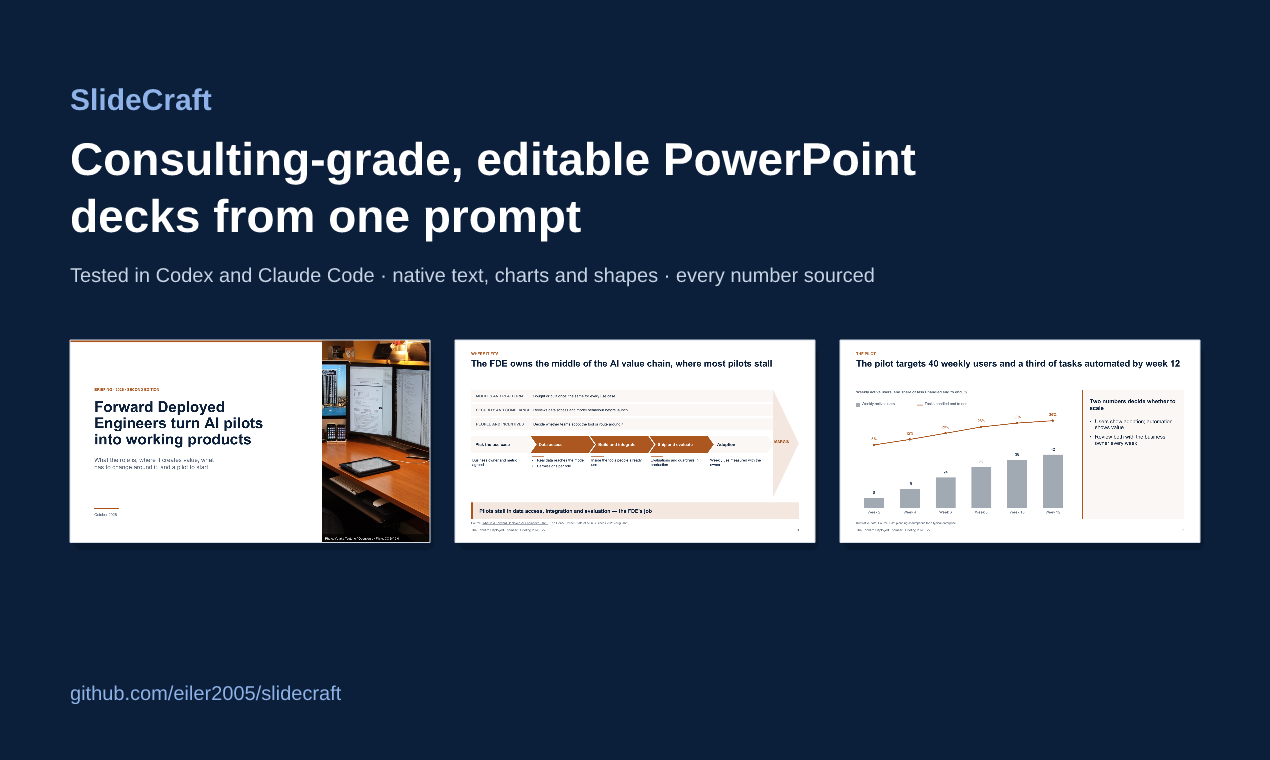
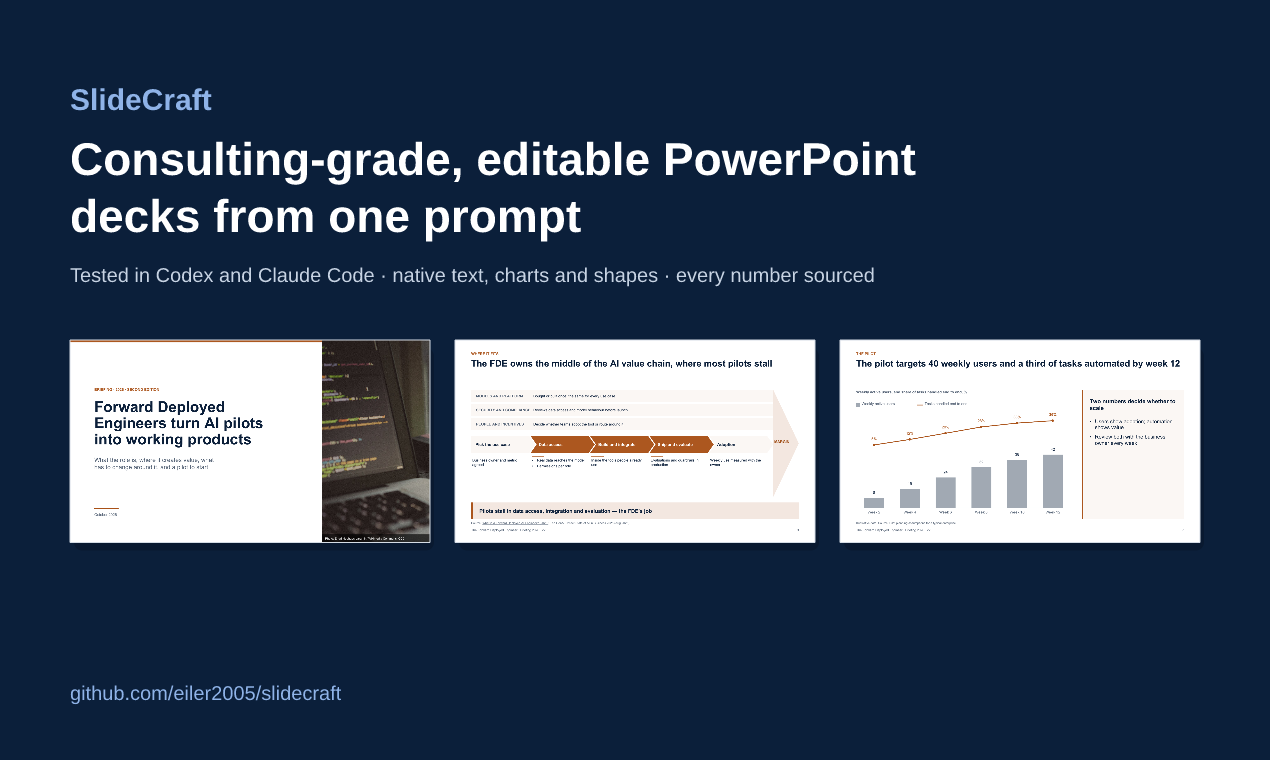
Landing page for the launch: GIF, one prompt with Copy, social card
- Site: tagline, explainer GIF, the README's one prompt with a Copy button,
  three featured decks, then the gallery; Open Graph / Twitter tags with
  a 1280x640 social preview and a favicon.
- README opens with the GIF, a one-line pitch and the one-prompt section.
- Launch media: social-preview.png; launch checklist updated.

Changed region(s): [[0.2457, 0.4237, 0.3378, 0.7263]]

diff --git a/src/site.ts b/src/site.ts
@@ -4,7 +4,15 @@
  * Generated in CI and never committed, so the gallery can grow without bloating git;
  * the repository keeps only the curated images that README and docs embed.
  */
-import { copyFileSync, existsSync, mkdirSync, readdirSync, rmSync, writeFileSync } from 'node:fs';
+import {
+  copyFileSync,
+  existsSync,
+  mkdirSync,
+  readdirSync,
+  readFileSync,
+  rmSync,
+  writeFileSync,
+} from 'node:fs';
 import { basename, join, relative, resolve } from 'node:path';
 import { buildDeck } from './build.ts';
 import { buildGallery, buildHero } from './gallery.ts';
@@ -13,6 +21,26 @@ import { loadStorylines, loadThemes } from './library/load.ts';
 import { ROOT, VERSION } from './paths.ts';
 
 const REPO = 'https://github.com/eiler2005/slidecraft';
+const SITE = 'https://eiler2005.github.io/slidecraft/';
+const TAGLINE = 'Editable PowerPoint decks from one prompt';
+const SUMMARY =
+  'Paste one prompt into ChatGPT, Claude or Codex and get an editable PowerPoint — action titles, sourced numbers and a review before hand-off. Not a picture of slides.';
+/** Shown first under "Example decks": a cover photo, a framework deck, the deck about SlideCraft. */
+const FEATURED = ['fde-engineer-en-v2', 'llm-concepts', 'slidecraft-overview'];
+/** Launch media copied next to the page: the explainer GIF, the social card and the icon. */
+const MEDIA: [string, string][] = [
+  ['docs/media/launch/slidecraft-story.gif', 'slidecraft-story.gif'],
+  ['docs/media/launch/social-preview.png', 'og.png'],
+  ['docs/media/launch/icon-240.png', 'icon.png'],
+];
+
+/** The one-prompt block from the README, so the site and the README never disagree. */
+export function onePrompt(readme = readFileSync(join(ROOT, 'README.md'), 'utf8')): string {
+  const section = readme.split(/^## The easiest way: one prompt$/m)[1] ?? '';
+  const block = /```text\n([\s\S]*?)\n```/.exec(section);
+  if (!block) throw new Error('README: no ```text block under "The easiest way: one prompt"');
+  return block[1]!;
+}
 const esc = (s: string) =>
   s.replace(/&/g, '&amp;').replace(/</g, '&lt;').replace(/>/g, '&gt;').replace(/"/g, '&quot;');
 
@@ -35,6 +63,7 @@ export async function buildSite(outDir = 'site'): Promise<SiteResult> {
     width: 1200,
   });
   const hero = await buildHero(join(out, 'gallery', 'hero.png'));
+  for (const [from, to] of MEDIA) copyFileSync(join(ROOT, from), join(out, to));
 
   const examples: { id: string; title: string; files: { kind: string; path: string }[] }[] = [];
   // the deck about SlideCraft first, then the rest alphabetically
@@ -62,7 +91,7 @@ export async function buildSite(outDir = 'site'): Promise<SiteResult> {
   }
   writeFileSync(
     join(out, 'index.html'),
-    page({ storylines, themes, examples, hero: relative(out, hero) }),
+    page({ storylines, themes, examples, hero: relative(out, hero), prompt: onePrompt() }),
   );
   writeFileSync(join(out, '.nojekyll'), '');
   return { out, pages: 1, images: g.files.length + 1, examples: examples.length };
@@ -81,6 +110,7 @@ function page(d: {
   themes: ReturnType<typeof loadThemes>;
   examples: { id: string; title: string; files: { kind: string; path: string }[] }[];
   hero: string;
+  prompt: string;
 }): string {
   const matrix = d.storylines
     .map(
@@ -99,25 +129,40 @@ function page(d: {
         `<figure class="card"><img loading="lazy" src="gallery/layouts/${l.id}--${ex.variant ?? l.variants[0]}.png" alt="${esc(`${l.name} — ${ex.variant ?? l.variants[0]}`)}"><figcaption><code>${l.id}</code> · ${esc(ex.variant ?? l.variants[0])}<br><span>${esc(l.purpose)}</span></figcaption></figure>`,
     ),
   ).join('');
+  const card = (e: (typeof d.examples)[number]) =>
+    // the cover opens the HTML deck: page through it in the browser (← →, N for notes)
+    `<figure class="card">${(() => {
+      const html = e.files.find((f) => f.kind === 'html');
+      const img = `<img loading="lazy" src="examples/${e.id}/cover.png" alt="${esc(e.title)}">`;
+      return html ? `<a href="${html.path}" title="Open in the browser">${img}</a>` : img;
+    })()}<figcaption><b>${esc(e.title)}</b><br>${e.files
+      .map((f) => `<a href="${f.path}">${KIND_LABEL[f.kind] ?? f.kind}</a>`)
+      .join(
+        ' · ',
+      )} · <a href="${REPO}/blob/main/examples/${e.id}/deck.yaml">deck.yaml</a></figcaption></figure>`;
+  const featured = FEATURED.flatMap((id) => d.examples.filter((e) => e.id === id));
   const ex = d.examples
-    .map(
-      (e) =>
-        // the cover opens the HTML deck: page through it in the browser (← →, N for notes)
-        `<figure class="card">${(() => {
-          const html = e.files.find((f) => f.kind === 'html');
-          const img = `<img loading="lazy" src="examples/${e.id}/cover.png" alt="${esc(e.title)}">`;
-          return html ? `<a href="${html.path}" title="Open in the browser">${img}</a>` : img;
-        })()}<figcaption><b>${esc(e.title)}</b><br>${e.files
-          .map((f) => `<a href="${f.path}">${KIND_LABEL[f.kind] ?? f.kind}</a>`)
-          .join(
-            ' · ',
-          )} · <a href="${REPO}/blob/main/examples/${e.id}/deck.yaml">deck.yaml</a></figcaption></figure>`,
-    )
+    .filter((e) => !FEATURED.includes(e.id))
+    .map(card)
     .join('');
   return `<!doctype html>
 <html lang="en"><head><meta charset="utf-8"><meta name="viewport" content="width=device-width,initial-scale=1">
-<title>SlideCraft — gallery</title>
-<meta name="description" content="Describe the goal. Pick a look. Ship a partner-ready deck. Editable PPTX, vector PDF, HTML, one-pager and Word memo from one spec.">
+<title>SlideCraft — ${esc(TAGLINE)}</title>
+<meta name="description" content="${esc(SUMMARY)}">
+<link rel="icon" type="image/png" href="icon.png">
+<meta property="og:type" content="website">
+<meta property="og:site_name" content="SlideCraft">
+<meta property="og:title" content="SlideCraft — ${esc(TAGLINE)}">
+<meta property="og:description" content="${esc(SUMMARY)}">
+<meta property="og:url" content="${SITE}">
+<meta property="og:image" content="${SITE}og.png">
+<meta property="og:image:width" content="1280">
+<meta property="og:image:height" content="640">
+<meta property="og:image:alt" content="SlideCraft: editable PowerPoint decks from one prompt, with three slides from an example deck">
+<meta name="twitter:card" content="summary_large_image">
+<meta name="twitter:title" content="SlideCraft — ${esc(TAGLINE)}">
+<meta name="twitter:description" content="${esc(SUMMARY)}">
+<meta name="twitter:image" content="${SITE}og.png">
 <style>
 :root{--bg:#fbfaf7;--ink:#14181f;--muted:#5b6472;--rule:#e2e5ea;--accent:#1f4e9e;--card:#fff}
 @media (prefers-color-scheme:dark){:root{--bg:#0f1216;--ink:#eef1f5;--muted:#9aa4b2;--rule:#262c35;--accent:#7aa7ff;--card:#161a20}}
@@ -126,21 +171,35 @@ main{max-width:1240px;margin:0 auto;padding:0 16px 64px}a{color:var(--accent)}
 header{padding:56px 0 24px}h1{font-size:clamp(28px,5vw,48px);line-height:1.1;margin:0 0 12px}header p{color:var(--muted);max-width:760px;font-size:18px}
 nav{display:flex;gap:16px;flex-wrap:wrap;margin:16px 0}h2{margin:56px 0 8px;font-size:26px}h2+p{color:var(--muted);margin-top:0}
 .hero{width:100%;border-radius:10px;border:1px solid var(--rule)}
+.cta{display:flex;gap:12px;flex-wrap:wrap;margin:20px 0 28px}.btn{display:inline-block;padding:10px 18px;border-radius:8px;border:1px solid var(--accent);font-weight:600;text-decoration:none}
+.btn.primary{background:var(--accent);color:var(--bg)}.gif{width:100%;height:auto;display:block;border-radius:10px;border:1px solid var(--rule)}
+.prompt{position:relative;background:var(--card);border:1px solid var(--rule);border-radius:10px;padding:16px 16px 12px}.prompt pre{margin:0;white-space:pre-wrap;font:14px/1.5 ui-monospace,Menlo,Consolas,monospace;color:var(--ink)}
+.prompt button{position:absolute;top:10px;right:10px;font:600 13px/1 -apple-system,"Segoe UI",Arial,sans-serif;padding:8px 12px;border-radius:6px;border:1px solid var(--accent);background:var(--accent);color:var(--bg);cursor:pointer}
+.points{display:grid;grid-template-columns:repeat(auto-fit,minmax(220px,1fr));gap:16px;margin:24px 0 0;padding:0;list-style:none}.points li{background:var(--card);border:1px solid var(--rule);border-radius:10px;padding:14px 16px}.points b{display:block;margin-bottom:4px}
+.note{color:var(--muted);font-size:14px}
+@media (max-width:640px){.prompt{padding-top:52px}}
 .story{border-top:1px solid var(--rule);padding:20px 0}.story h3{margin:0}.story p{color:var(--muted);margin:4px 0 12px}
 .row{display:grid;grid-template-columns:repeat(auto-fill,minmax(180px,1fr));gap:12px}
-figure{margin:0}img{width:100%;display:block;border:1px solid var(--rule);border-radius:6px;background:#fff}
+figure{margin:0}img{width:100%;height:auto;display:block;border:1px solid var(--rule);border-radius:6px;background:#fff}
 figcaption{font-size:13px;color:var(--muted);padding-top:6px}figcaption b{color:var(--accent);font-weight:600}
 .grid{display:grid;grid-template-columns:repeat(auto-fill,minmax(260px,1fr));gap:20px}.card figcaption span{display:block;margin-top:2px}
 footer{color:var(--muted);font-size:13px;border-top:1px solid var(--rule);margin-top:64px;padding-top:16px}
 code{font-size:13px}
 </style></head><body><main>
-<header><h1>SlideCraft</h1><p>Describe the goal. Pick a look. Ship a partner-ready deck. One spec becomes editable PowerPoint, vector PDF, an HTML deck, a one-pager and a Word memo.</p>
-<nav><a href="${REPO}">GitHub</a><a href="${REPO}#the-easiest-way-one-prompt">One prompt</a><a href="${REPO}/tree/main/docs">Documentation</a><a href="#examples">Examples</a><a href="#storylines">Storylines × themes</a><a href="#layouts">Layouts</a></nav>
-<img class="hero" src="${d.hero}" alt="Slides from SlideCraft example decks"></header>
-<h2 id="examples">Example decks</h2><p>Built in CI from <code>examples/</code> with SlideCraft ${VERSION}. Click a cover to page through the deck in your browser, or download any format.</p><div class="grid">${ex}</div>
+<header><nav><a href="#start">One prompt</a><a href="#examples">Examples</a><a href="#storylines">Storylines × themes</a><a href="#layouts">Layouts</a><a href="${REPO}/tree/main/docs">Documentation</a><a href="${REPO}">GitHub</a></nav>
+<h1>SlideCraft — ${esc(TAGLINE)}</h1><p>${esc(SUMMARY)}</p>
+<div class="cta"><a class="btn primary" href="#start">Copy the prompt</a><a class="btn" href="#examples">See example decks</a><a class="btn" href="${REPO}">GitHub</a></div>
+<img class="gif" src="slidecraft-story.gif" width="1280" height="720" alt="SlideCraft in 30 seconds: one prompt, the action-title chain, cover options, the built deck, a wrong total caught, and the editable PowerPoint"></header>
+<h2 id="start">Start with one prompt</h2><p>No install, no YAML. Paste this into ChatGPT (agent mode), Codex, Claude or Claude Code — any assistant that can run code and open a link — and fill in the brackets.</p>
+<div class="prompt"><button type="button" id="copy">Copy</button><pre id="prompt">${esc(d.prompt)}</pre></div>
+<p class="note">The assistant runs <code>npx @eiler2005/slidecraft</code> on its side, shows you the titles and covers to approve, then hands you the .pptx and a PDF. Tested with Codex and Claude Code. For repeat work, <a href="${REPO}#install">install it into your assistant</a>.</p>
+<ul class="points"><li><b>Native PowerPoint</b>Text, tables, charts, icons and notes stay editable — not a picture of slides.</li><li><b>A consulting method</b>Action titles, one message per slide, 42 layouts with measured limits.</li><li><b>Checked before you see it</b>Every number sourced, totals add up, text fits by PowerPoint's own rules, a final visual review.</li></ul>
+<h2 id="examples">Example decks</h2><p>Built in CI from <code>examples/</code> with SlideCraft ${VERSION}. Click a cover to page through the deck in your browser, or download any format.</p><div class="grid">${featured.map(card).join('')}</div>
+<h3>More examples</h3><div class="grid">${ex}</div>
+<p><img class="hero" loading="lazy" src="${d.hero}" alt="Slides from SlideCraft example decks"></p>
 <h2 id="storylines">Storylines × themes</h2><p>${d.storylines.length} storylines in all ${d.themes.length} themes — the storyline is the task, the theme is the look; any pair works.</p>${matrix}
 <h2 id="layouts">Layouts</h2><p>${LAYOUTS.length} layouts — each one a content contract with capacity limits. Shown in consulting-classic.</p><div class="grid">${layouts}</div>
 <footer>SlideCraft ${VERSION} · PolyForm Shield 1.0.0 · generated by <code>slidecraft site</code> · <a href="${REPO}">${basename(REPO)}</a></footer>
-</main></body></html>
+</main><script>document.getElementById('copy').addEventListener('click',function(){var b=this;navigator.clipboard.writeText(document.getElementById('prompt').textContent).then(function(){b.textContent='Copied';setTimeout(function(){b.textContent='Copy'},1600)})})</script></body></html>
 `;
 }

diff --git a/scripts/launch/media.ts b/scripts/launch/media.ts
@@ -1,5 +1,6 @@
 /**
- * Launch media: Product Hunt gallery images (1270×760) and the icon (240×240), composed from
+ * Launch media: Product Hunt gallery images (1270×760), the social preview (1280×640, GitHub card
+ * and og:image) and the icon (240×240), composed from
  * real renders in docs/showcase. The README GIF comes from scripts/launch/gif-story.ts. Run after the example decks are built:
  *   npx tsx scripts/launch/media.ts
  */
@@ -152,12 +153,28 @@ ${text('Value chain, 7S, waterfall, Marimekko, gantt, 2×2, combo charts… Icon
 
   for (const [name, svg] of files) writeFileSync(join(OUT, name), await rasterize(svg, 1270));
 
+  // social preview (GitHub repository card, og:image of the site): 1280×640
+  const social = page(
+    `${text('SlideCraft', 64, 92, 28, '#8FB3E8', 'bold')}
+${text('Editable PowerPoint decks', 64, 158, 50, '#FFFFFF', 'bold')}
+${text('from one prompt', 64, 220, 50, '#FFFFFF', 'bold')}
+${text('ChatGPT · Claude · Codex — action titles, sourced numbers, a review before hand-off', 64, 268, 21, '#C7D3E3')}
+${slide(png(`${v2}/01-cover.png`), 64, 318, 360)}
+${slide(png(`${v2}/03-value-chain.png`), 460, 318, 360)}
+${slide(png(`${v2}/07-pilot-plan.png`), 856, 318, 360)}
+${text('github.com/eiler2005/slidecraft', 64, 600, 20, '#8FB3E8')}`,
+    true,
+    1280,
+    640,
+  );
+  writeFileSync(join(OUT, 'social-preview.png'), await rasterize(social, 1280));
+
   // icon: a slide with a rising chevron, in the brand blue
   const icon = `<svg xmlns="http://www.w3.org/2000/svg" width="240" height="240" viewBox="0 0 240 240"><rect width="240" height="240" rx="52" fill="${NAVY}"/><rect x="44" y="64" width="152" height="112" rx="10" fill="#FFFFFF"/><rect x="60" y="82" width="64" height="9" rx="4" fill="${NAVY}"/><rect x="60" y="98" width="44" height="6" rx="3" fill="#B9C7DA"/><rect x="62" y="140" width="18" height="22" fill="#B9C7DA"/><rect x="88" y="128" width="18" height="34" fill="#7F9CC4"/><rect x="114" y="114" width="18" height="48" fill="${BLUE}"/><polyline points="146,150 162,132 178,112" fill="none" stroke="${BLUE}" stroke-width="8" stroke-linecap="round" stroke-linejoin="round"/></svg>`;
   writeFileSync(join(OUT, 'icon-240.png'), await rasterize(icon, 240));
 
   // the explainer GIF is scripts/launch/gif-story.ts
-  console.log(`✔ ${files.length} gallery images and the icon`);
+  console.log(`✔ ${files.length} gallery images, the social preview and the icon`);
 }
 
 await main(process.argv[2] ?? 'llm-concepts');

diff --git a/tests/docs.test.ts b/tests/docs.test.ts
@@ -39,3 +39,13 @@ describe('docs links', () => {
     });
   }
 });
+
+describe('gallery site landing', () => {
+  it('takes the one-prompt block from the README, so the two never disagree', async () => {
+    const { onePrompt } = await import('../src/site.ts');
+    const p = onePrompt();
+    expect(p).toMatch(/^Study the repository https:\/\/github\.com\/eiler2005\/slidecraft/);
+    expect(p).toContain('Topic: [');
+    expect(p).not.toContain('```');
+  });
+});

diff --git a/README.md b/README.md
@@ -1,6 +1,4 @@
-<p align="center">
-  <img src="docs/media/hero.png" alt="SlideCraft — six slides from the example decks in six themes: an executive summary, a hero number, a revenue waterfall, a 2×2 competition matrix, a gantt roadmap and a lessons slide" width="100%">
-</p>
+<p align="center"><img src="docs/media/launch/slidecraft-story.gif" alt="SlideCraft in 30 seconds: the problem with AI slides, one prompt, the action-title chain, cover options, the built deck, a total that does not add up being caught, and the editable PowerPoint with native chart and sources in the notes" width="100%"></p>
 
 <p align="center">
   <a href="https://github.com/eiler2005/slidecraft/actions/workflows/ci.yml"><img alt="CI" src="https://img.shields.io/github/actions/workflow/status/eiler2005/slidecraft/ci.yml?branch=main&label=CI&style=flat&labelColor=0B1F3A&color=1F5FBF"></a>
@@ -12,25 +10,13 @@
 </p>
 
 <p align="center">
-  <b>Describe the goal. Pick a look. Ship a partner-ready deck.</b><br>
+  <b>Editable PowerPoint decks from one prompt.</b> Describe the goal, pick a look, ship a partner-ready deck.<br>
   <a href="#the-easiest-way-one-prompt">One prompt</a> · <a href="#install">Install</a> · <a href="docs/tutorials/first-deck-in-10-minutes.md">First deck in 10 minutes</a> · <a href="https://eiler2005.github.io/slidecraft/">Gallery site</a> · <a href="docs/README.md">Docs</a> · <a href="ROADMAP.md">Roadmap</a> · <a href="CHANGELOG.md">Changelog</a>
 </p>
 
 ---
 
-**SlideCraft** turns a goal into a consulting-grade presentation. You say what the deck must achieve and for whom. SlideCraft proposes templates for the task, builds the storyline and a ghost deck of action titles for you to approve, then writes the slides and renders them to an **editable PowerPoint, an accessible vector PDF and a self-contained HTML deck** — plus a one-pager and a Word memo when readers read rather than watch. A partner-style review closes the loop.
-
-It works with **any AI agent or LLM that can run a command**:
-- **Claude Code** — a plugin with skills and model-tiered agents;
-- **OpenAI Codex** — installable skills;
-- **Claude Desktop, Cursor, VS Code, Windsurf, Gemini CLI** — an MCP server, connected with one `install` command;
-- **Aider or your own scripts** — through [`AGENTS.md`](AGENTS.md) and a JSON CLI.
-
-It works from **your material**: numbers come from your Excel or CSV files and are written once, sources cite the page of the report they come from, and text a colleague edits in PowerPoint flows back into the deck.
-
-Underneath is one **zero-install CLI**. Every layout is measured with metric-compatible fonts, so text that fits in SlideCraft fits in PowerPoint — verified line by line against real PowerPoint output.
-
-<p align="center"><img src="docs/media/launch/slidecraft-story.gif" alt="SlideCraft in 30 seconds: the problem with AI slides, one prompt, the action-title chain, cover options, the built deck, a total that does not add up being caught, and the editable PowerPoint with native chart and sources in the notes" width="100%"></p>
+Paste [one prompt](#the-easiest-way-one-prompt) into ChatGPT, Claude or Codex and get an **editable PowerPoint** — action titles, sourced numbers and a review before hand-off. Not a picture of slides.
 
 ## The easiest way: one prompt
 
@@ -52,6 +38,24 @@ building, cite a source for every number, then give me the .pptx and a PDF.
 ```
 
 The assistant runs `npx @eiler2005/slidecraft` on its side, writes the deck, checks it and hands you an editable PowerPoint. **Tested with Codex and Claude Code** on exactly this prompt — see what each made, unedited, with an independent review: [Codex](examples/llm-concepts/README.md) · [Claude Code](examples/llm-concepts-claude/README.md). ChatGPT in agent mode and Claude.ai with code execution follow the same `AGENTS.md`; we have not run them ourselves yet. The content can be in any language. A chat without code execution can still write the `deck.yaml`; build it yourself with `npx @eiler2005/slidecraft build deck.yaml`. For repeat work, install it into your assistant ([install](#install)).
+
+## What SlideCraft is
+
+<p align="center">
+  <img src="docs/media/hero.png" alt="SlideCraft — six slides from the example decks in six themes: an executive summary, a hero number, a revenue waterfall, a 2×2 competition matrix, a gantt roadmap and a lessons slide" width="100%">
+</p>
+
+**SlideCraft** turns a goal into a consulting-grade presentation. You say what the deck must achieve and for whom. SlideCraft proposes templates for the task, builds the storyline and a ghost deck of action titles for you to approve, then writes the slides and renders them to an **editable PowerPoint, an accessible vector PDF and a self-contained HTML deck** — plus a one-pager and a Word memo when readers read rather than watch. A partner-style review closes the loop.
+
+It works with **any AI agent or LLM that can run a command**:
+- **Claude Code** — a plugin with skills and model-tiered agents;
+- **OpenAI Codex** — installable skills;
+- **Claude Desktop, Cursor, VS Code, Windsurf, Gemini CLI** — an MCP server, connected with one `install` command;
+- **Aider or your own scripts** — through [`AGENTS.md`](AGENTS.md) and a JSON CLI.
+
+It works from **your material**: numbers come from your Excel or CSV files and are written once, sources cite the page of the report they come from, and text a colleague edits in PowerPoint flows back into the deck.
+
+Underneath is one **zero-install CLI**. Every layout is measured with metric-compatible fonts, so text that fits in SlideCraft fits in PowerPoint — verified line by line against real PowerPoint output.
 
 ## Why an editable PowerPoint from one prompt
 

diff --git a/CHANGELOG.md b/CHANGELOG.md
@@ -2,6 +2,12 @@
 
 All notable changes to SlideCraft. Format: [Keep a Changelog](https://keepachangelog.com/en/1.1.0/); versions follow [SemVer](https://semver.org/).
 
+## [Unreleased]
+
+### Changed
+- **Gallery site is a landing page:** the tagline, the explainer GIF, the one prompt with a Copy button (read from the README at build time, so the two never disagree), three featured decks, then the gallery; Open Graph and Twitter card tags with a 1280×640 social preview, and a favicon.
+- **README** opens with the GIF, a one-line pitch and the one-prompt section; the longer description follows under "What SlideCraft is".
+
 ## [0.7.3] — 2026-10-13
 
 ### Added
